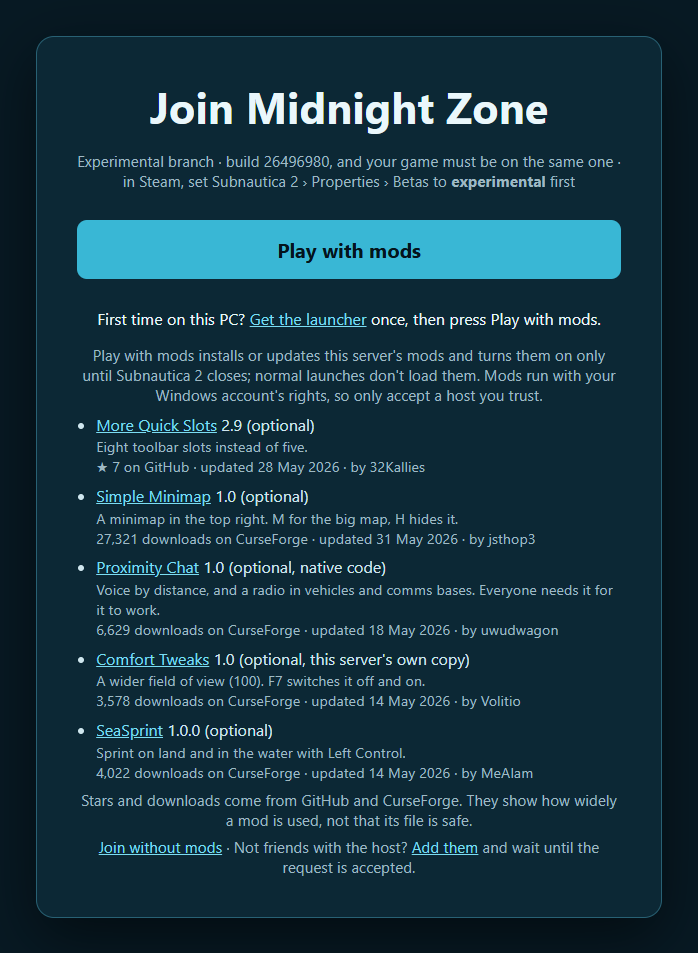
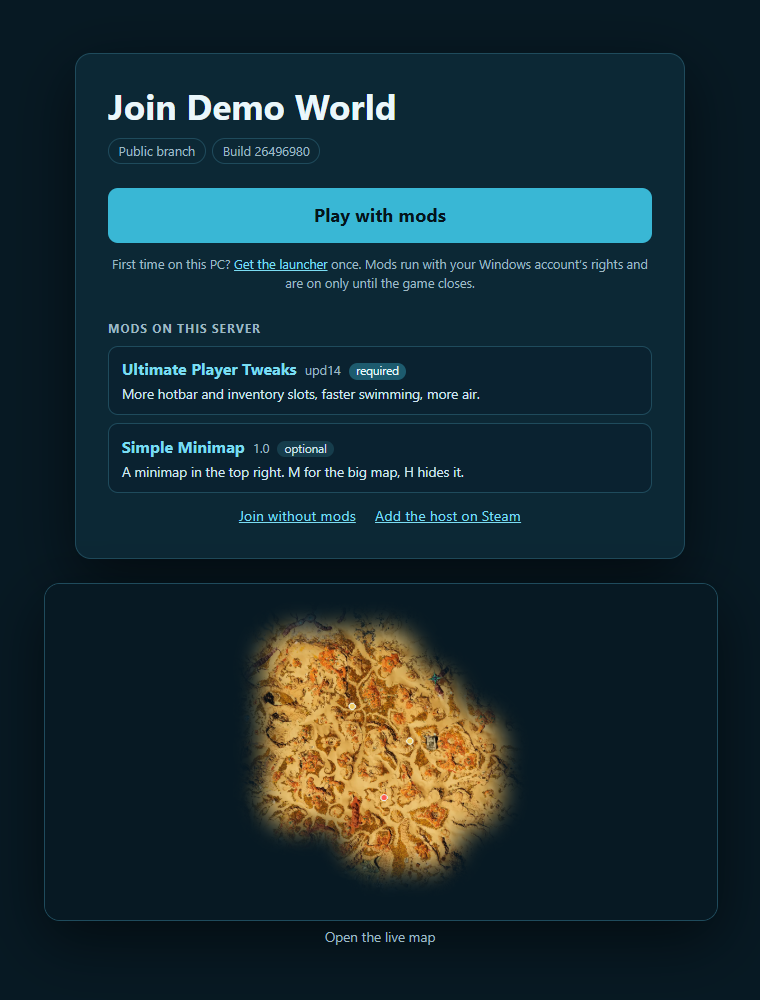
README pictures come from a staged demo server: join page, map and the launcher's mod list
The old pictures showed a live server's name, a tunnel address and a mod copy the server re-hosted.
The Discord card and download-progress pictures are gone rather than staged. The build 26496980 row
says players have joined it with mods.

Changed region(s): [[0.0301, 0.0913, 0.9628, 0.9738]]

diff --git a/README.md b/README.md
@@ -6,9 +6,9 @@ Moonpool runs the real game under Wine in Docker, on a spare PC or a server. It 
 
 Moonpool is unofficial and not affiliated with Unknown Worlds, KRAFTON or Valve. This repo contains no game files, and nothing here is for sale.
 
-![The Discord card: who is on, the codes to add, the map and a Join button](docs/images/discord-card.png)
+![The join page of a demo server: Play with mods, the server's mods with their summaries, and a preview of the map](docs/images/join-page.png)
 
-![The join page: Play with mods, then the server's mods, each with its summary and its GitHub stars or CurseForge downloads where those sites have them](docs/images/join-page.png)
+![The map page of the same demo: two players shown where they were 15 minutes ago, the lifepod and two PDA signals, fog over the places nobody has visited](docs/images/map.png)
 
 ## For your friends
 
@@ -61,11 +61,9 @@ cp plugins.example.yaml plugins.yaml   # edit it with any editor
 bin/moonpool mods publish plugins.yaml
 ```
 
-The join page then offers Play with mods. Players install the Moonpool launcher once, from [moonpool-setup.cmd](https://github.com/moonpool-server/moonpool/releases/latest/download/moonpool-setup.cmd) in this repo's releases; the join page links it. When they press Play with mods, the launcher lists any new or changed mods with the site each one downloads from, and asks before installing them. It then shows its progress, keeps them on the exact files you published, and starts the game through Steam.
+The join page then offers Play with mods. Players install the Moonpool launcher once, from [moonpool-setup.cmd](https://github.com/moonpool-server/moonpool/releases/latest/download/moonpool-setup.cmd) in this repo's releases; the join page links it. When they press Play with mods and the list has something they haven't accepted, the launcher shows the mods with the site each one downloads from, marks the new and changed ones, and asks before installing them. It then shows its progress, keeps them on the exact files you published, and starts the game through Steam.
 
-![The launcher asking to install Midnight Zone's mods, each with the site it downloads from](docs/images/launcher-install.png)
-
-![The launcher downloading a mod, with its progress bar and a Cancel button](docs/images/launcher-progress.png)
+![The launcher asking which of the demo server's mods to install, each with the site it downloads from, and the UE4SS loader they need](docs/images/launcher-install.png)
 
 The mods are on only while the game the launcher started is running, so a normal Steam launch loads none of them. When the game closes, the launcher turns them off again, and says so if a file was still in use. If the launcher is killed mid-game, they stay on until its next run or until the player uses the "Subnautica 2 (without Moonpool mods)" shortcut. The player's own mods are left alone, with two exceptions: a `UE4SS_Signatures` folder the server didn't send is moved aside while Moonpool's mods are on and put back after, and a loader the player installed another way is replaced only after asking, with a copy kept in `%LOCALAPPDATA%\Moonpool-replaced`. Xbox and Game Pass players join without mods.
 
@@ -121,7 +119,7 @@ The maintainer tests by hand, with real players joining over the internet, on Do
 |---|---|---|
 | public | `25400633` | Hosted; real players joined over the internet |
 | experimental | `26283380` | Hosted; real players joined over the internet. Joining with mods through the launcher and moving the world between two hosts also worked, in short sessions |
-| experimental | `26496980` (seen 9 November 2026) | Hosted with UE4SS 1190 and two layout files in `ue4ss-local`; the guide's [Updates](docs/operating.md#updates) section says which. No player has joined it yet |
+| experimental | `26496980` (seen 9 November 2026) | Hosted with UE4SS 1190 and two layout files in `ue4ss-local`; the guide's [Updates](docs/operating.md#updates) section says which. Real players joined over the internet with mods through the launcher |
 
 A game update can stop hosting: the newest build above hosted only once it had those two files. The host reports it when that happens, and the [guide](docs/operating.md) covers what to do. Treat a newer build as unproven until a host comes up on it. The table records only the maintainer's runs, so if you try a build, an issue saying what happened is the most useful thing you can send.
 
